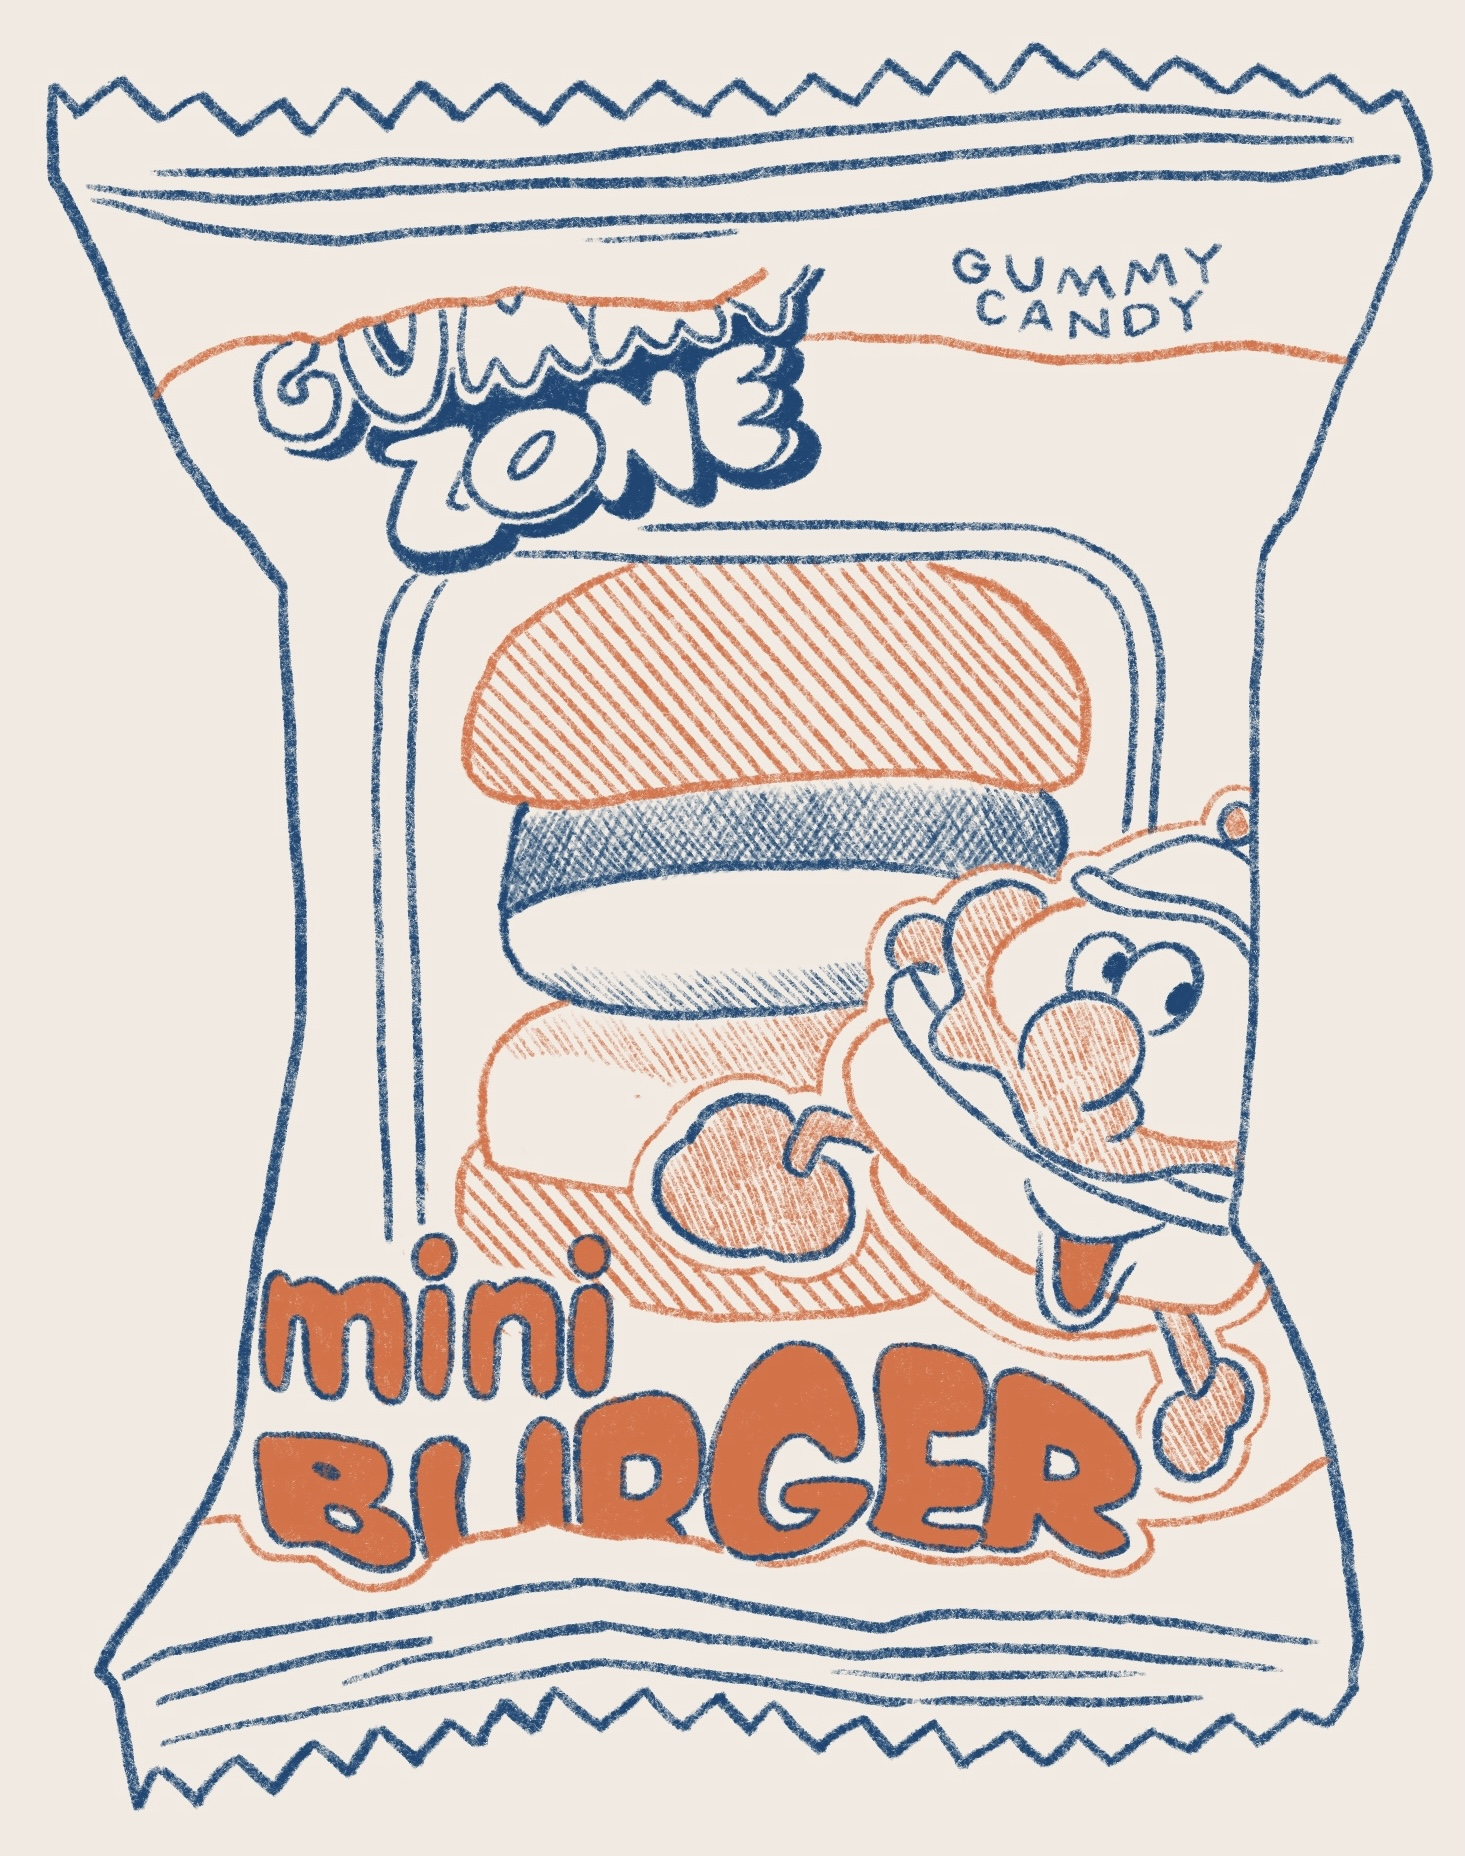
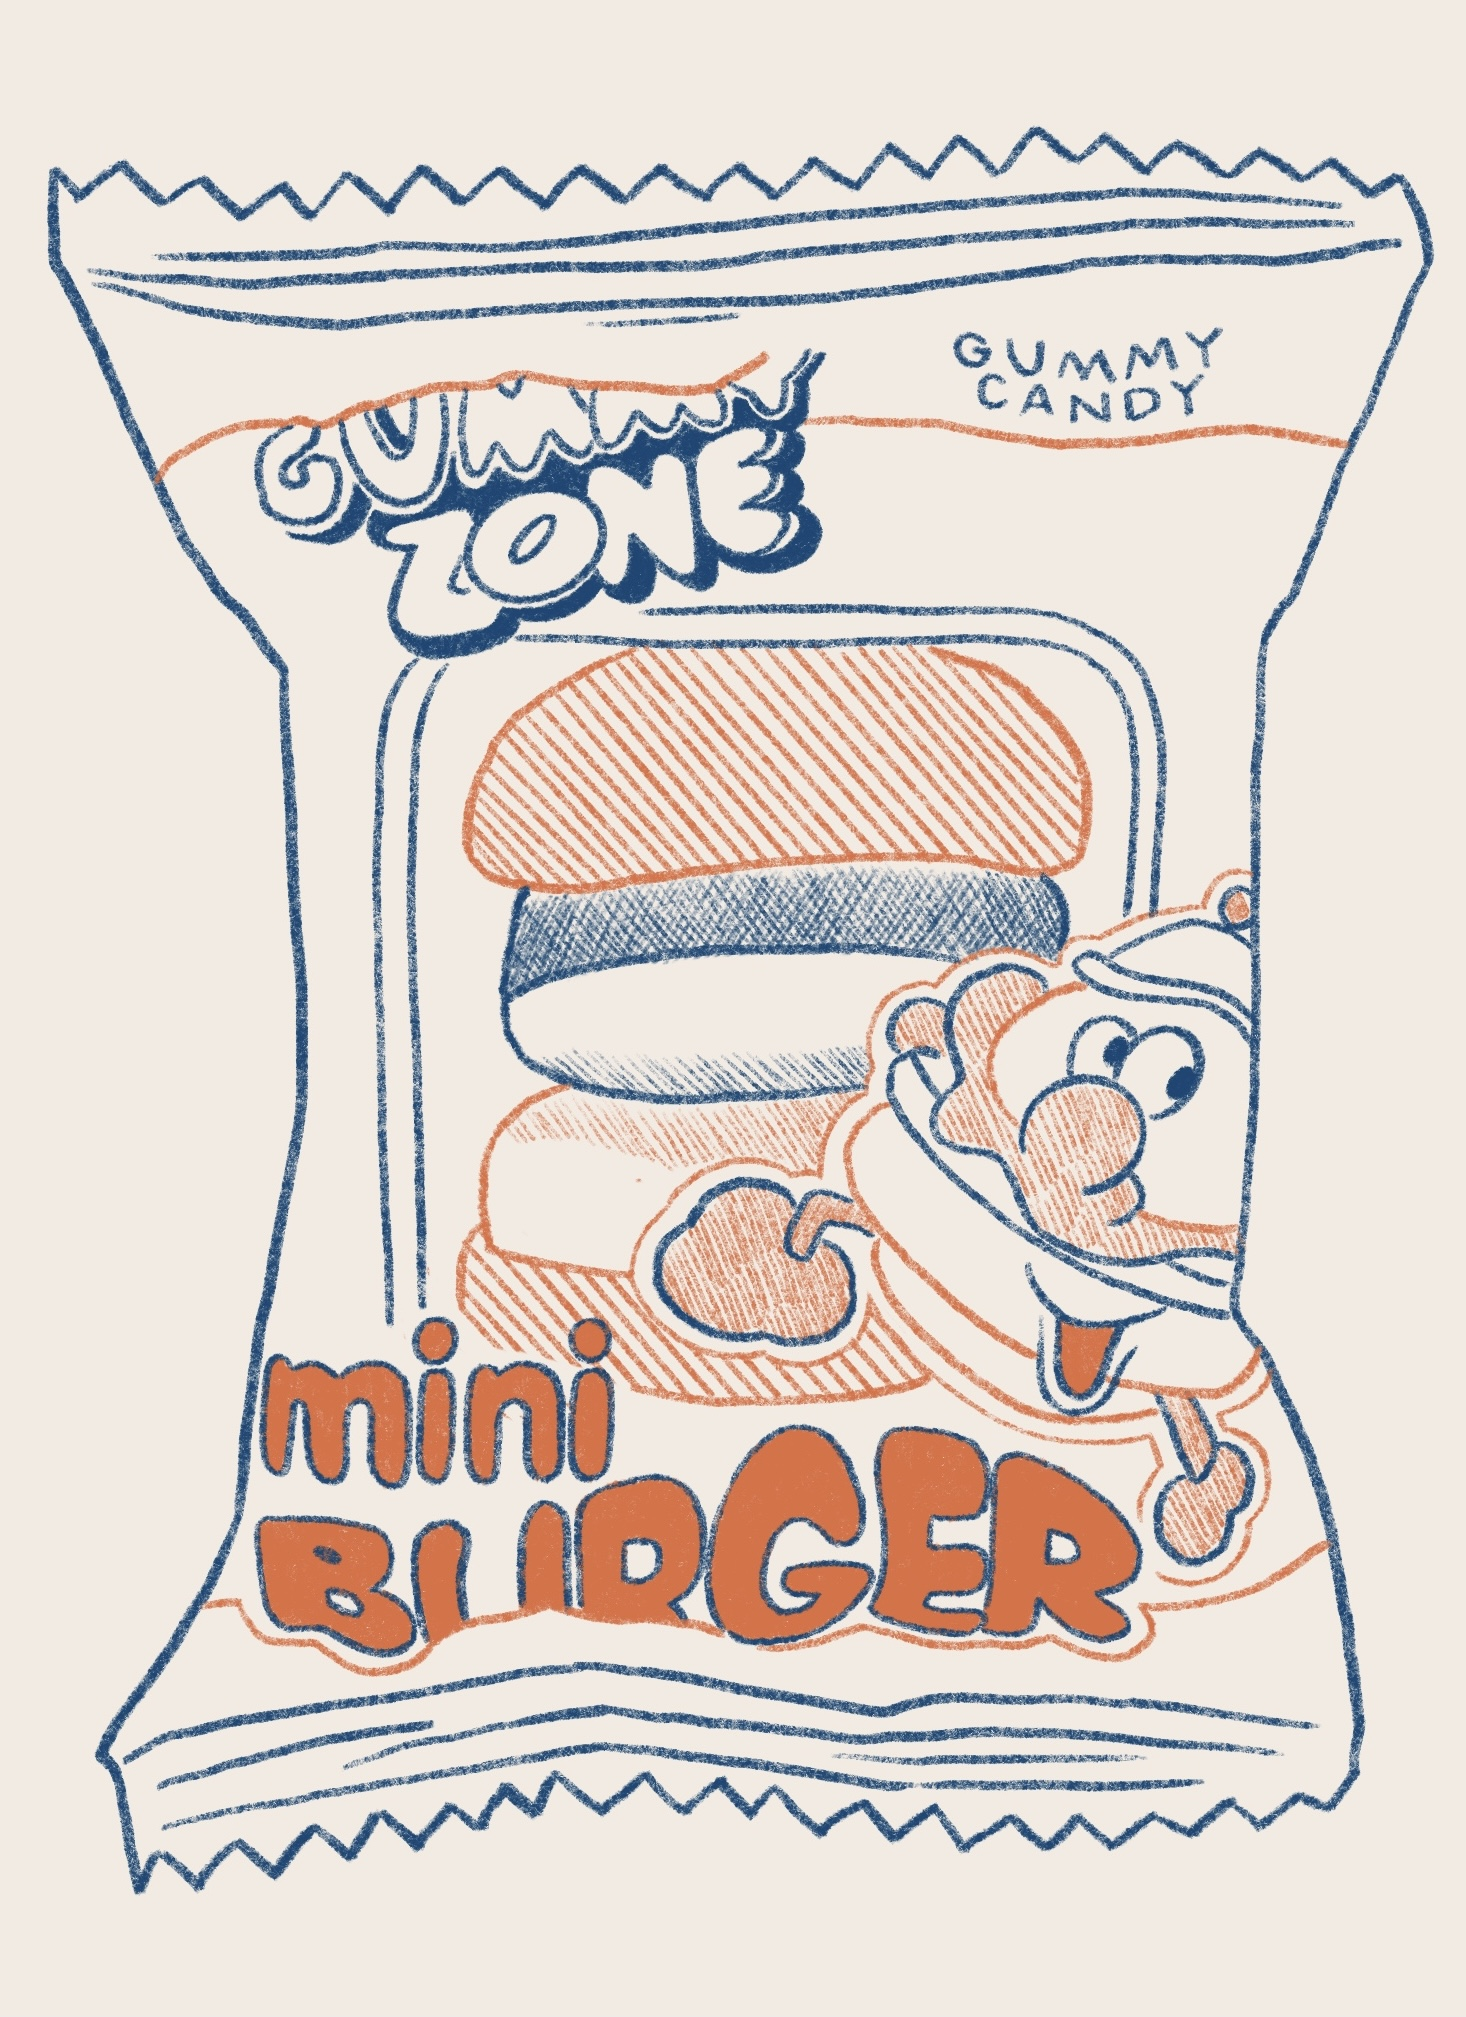
link

diff --git a/projects/project2/snack10/index.html b/projects/project2/snack10/index.html
@@ -1,0 +1,27 @@
+<!DOCTYPE html>
+<html lang="en">
+<head>
+    <meta charset="UTF-8">
+    <meta http-equiv="X-UA-Compatible" content="IE=edge">
+    <meta name="viewport" content="width=device-width, initial-scale=1.0">
+    <title>Document</title>
+    <link rel="stylesheet" type="text/css" href="../assets/style.css">  
+    <script>
+        (function(d) {
+          var config = {
+            kitId: 'jhi4oxh',
+            scriptTimeout: 3000,
+            async: true
+          },
+          h=d.documentElement,t=setTimeout(function(){h.className=h.className.replace(/\bwf-loading\b/g,"")+" wf-inactive";},config.scriptTimeout),tk=d.createElement("script"),f=false,s=d.getElementsByTagName("script")[0],a;h.className+=" wf-loading";tk.src='https://use.typekit.net/'+config.kitId+'.js';tk.async=true;tk.onload=tk.onreadystatechange=function(){a=this.readyState;if(f||a&&a!="complete"&&a!="loaded")return;f=true;clearTimeout(t);try{Typekit.load(config)}catch(e){}};s.parentNode.insertBefore(tk,s)
+        })(document);
+      </script>
+</head>
+<body data-snackid="10">
+    <main id="container">
+    </main>  
+
+
+    <script src="../assets/snackpage.js"></script>
+</body>
+</html>

diff --git a/projects/project2/snack11/index.html b/projects/project2/snack11/index.html
@@ -1,0 +1,27 @@
+<!DOCTYPE html>
+<html lang="en">
+<head>
+    <meta charset="UTF-8">
+    <meta http-equiv="X-UA-Compatible" content="IE=edge">
+    <meta name="viewport" content="width=device-width, initial-scale=1.0">
+    <title>Document</title>
+    <link rel="stylesheet" type="text/css" href="../assets/style.css">  
+    <script>
+        (function(d) {
+          var config = {
+            kitId: 'jhi4oxh',
+            scriptTimeout: 3000,
+            async: true
+          },
+          h=d.documentElement,t=setTimeout(function(){h.className=h.className.replace(/\bwf-loading\b/g,"")+" wf-inactive";},config.scriptTimeout),tk=d.createElement("script"),f=false,s=d.getElementsByTagName("script")[0],a;h.className+=" wf-loading";tk.src='https://use.typekit.net/'+config.kitId+'.js';tk.async=true;tk.onload=tk.onreadystatechange=function(){a=this.readyState;if(f||a&&a!="complete"&&a!="loaded")return;f=true;clearTimeout(t);try{Typekit.load(config)}catch(e){}};s.parentNode.insertBefore(tk,s)
+        })(document);
+      </script>
+</head>
+<body data-snackid="11">
+    <main id="container">
+    </main>  
+
+
+    <script src="../assets/snackpage.js"></script>
+</body>
+</html>

diff --git a/projects/project2/snack12/index.html b/projects/project2/snack12/index.html
@@ -1,0 +1,27 @@
+<!DOCTYPE html>
+<html lang="en">
+<head>
+    <meta charset="UTF-8">
+    <meta http-equiv="X-UA-Compatible" content="IE=edge">
+    <meta name="viewport" content="width=device-width, initial-scale=1.0">
+    <title>Document</title>
+    <link rel="stylesheet" type="text/css" href="../assets/style.css">  
+    <script>
+        (function(d) {
+          var config = {
+            kitId: 'jhi4oxh',
+            scriptTimeout: 3000,
+            async: true
+          },
+          h=d.documentElement,t=setTimeout(function(){h.className=h.className.replace(/\bwf-loading\b/g,"")+" wf-inactive";},config.scriptTimeout),tk=d.createElement("script"),f=false,s=d.getElementsByTagName("script")[0],a;h.className+=" wf-loading";tk.src='https://use.typekit.net/'+config.kitId+'.js';tk.async=true;tk.onload=tk.onreadystatechange=function(){a=this.readyState;if(f||a&&a!="complete"&&a!="loaded")return;f=true;clearTimeout(t);try{Typekit.load(config)}catch(e){}};s.parentNode.insertBefore(tk,s)
+        })(document);
+      </script>
+</head>
+<body data-snackid="12">
+    <main id="container">
+    </main>  
+
+
+    <script src="../assets/snackpage.js"></script>
+</body>
+</html>

diff --git a/projects/project2/snack13/index.html b/projects/project2/snack13/index.html
@@ -1,0 +1,27 @@
+<!DOCTYPE html>
+<html lang="en">
+<head>
+    <meta charset="UTF-8">
+    <meta http-equiv="X-UA-Compatible" content="IE=edge">
+    <meta name="viewport" content="width=device-width, initial-scale=1.0">
+    <title>Document</title>
+    <link rel="stylesheet" type="text/css" href="../assets/style.css">  
+    <script>
+        (function(d) {
+          var config = {
+            kitId: 'jhi4oxh',
+            scriptTimeout: 3000,
+            async: true
+          },
+          h=d.documentElement,t=setTimeout(function(){h.className=h.className.replace(/\bwf-loading\b/g,"")+" wf-inactive";},config.scriptTimeout),tk=d.createElement("script"),f=false,s=d.getElementsByTagName("script")[0],a;h.className+=" wf-loading";tk.src='https://use.typekit.net/'+config.kitId+'.js';tk.async=true;tk.onload=tk.onreadystatechange=function(){a=this.readyState;if(f||a&&a!="complete"&&a!="loaded")return;f=true;clearTimeout(t);try{Typekit.load(config)}catch(e){}};s.parentNode.insertBefore(tk,s)
+        })(document);
+      </script>
+</head>
+<body data-snackid="13">
+    <main id="container">
+    </main>  
+
+
+    <script src="../assets/snackpage.js"></script>
+</body>
+</html>

diff --git a/projects/project2/snack7/index.html b/projects/project2/snack7/index.html
@@ -1,0 +1,27 @@
+<!DOCTYPE html>
+<html lang="en">
+<head>
+    <meta charset="UTF-8">
+    <meta http-equiv="X-UA-Compatible" content="IE=edge">
+    <meta name="viewport" content="width=device-width, initial-scale=1.0">
+    <title>Document</title>
+    <link rel="stylesheet" type="text/css" href="../assets/style.css">  
+    <script>
+        (function(d) {
+          var config = {
+            kitId: 'jhi4oxh',
+            scriptTimeout: 3000,
+            async: true
+          },
+          h=d.documentElement,t=setTimeout(function(){h.className=h.className.replace(/\bwf-loading\b/g,"")+" wf-inactive";},config.scriptTimeout),tk=d.createElement("script"),f=false,s=d.getElementsByTagName("script")[0],a;h.className+=" wf-loading";tk.src='https://use.typekit.net/'+config.kitId+'.js';tk.async=true;tk.onload=tk.onreadystatechange=function(){a=this.readyState;if(f||a&&a!="complete"&&a!="loaded")return;f=true;clearTimeout(t);try{Typekit.load(config)}catch(e){}};s.parentNode.insertBefore(tk,s)
+        })(document);
+      </script>
+</head>
+<body data-snackid="7">
+    <main id="container">
+    </main>  
+
+
+    <script src="../assets/snackpage.js"></script>
+</body>
+</html>

diff --git a/projects/project2/snack8/index.html b/projects/project2/snack8/index.html
@@ -1,0 +1,27 @@
+<!DOCTYPE html>
+<html lang="en">
+<head>
+    <meta charset="UTF-8">
+    <meta http-equiv="X-UA-Compatible" content="IE=edge">
+    <meta name="viewport" content="width=device-width, initial-scale=1.0">
+    <title>Document</title>
+    <link rel="stylesheet" type="text/css" href="../assets/style.css">  
+    <script>
+        (function(d) {
+          var config = {
+            kitId: 'jhi4oxh',
+            scriptTimeout: 3000,
+            async: true
+          },
+          h=d.documentElement,t=setTimeout(function(){h.className=h.className.replace(/\bwf-loading\b/g,"")+" wf-inactive";},config.scriptTimeout),tk=d.createElement("script"),f=false,s=d.getElementsByTagName("script")[0],a;h.className+=" wf-loading";tk.src='https://use.typekit.net/'+config.kitId+'.js';tk.async=true;tk.onload=tk.onreadystatechange=function(){a=this.readyState;if(f||a&&a!="complete"&&a!="loaded")return;f=true;clearTimeout(t);try{Typekit.load(config)}catch(e){}};s.parentNode.insertBefore(tk,s)
+        })(document);
+      </script>
+</head>
+<body data-snackid="8">
+    <main id="container">
+    </main>  
+
+
+    <script src="../assets/snackpage.js"></script>
+</body>
+</html>

diff --git a/projects/project2/snack9/index.html b/projects/project2/snack9/index.html
@@ -1,0 +1,27 @@
+<!DOCTYPE html>
+<html lang="en">
+<head>
+    <meta charset="UTF-8">
+    <meta http-equiv="X-UA-Compatible" content="IE=edge">
+    <meta name="viewport" content="width=device-width, initial-scale=1.0">
+    <title>Document</title>
+    <link rel="stylesheet" type="text/css" href="../assets/style.css">  
+    <script>
+        (function(d) {
+          var config = {
+            kitId: 'jhi4oxh',
+            scriptTimeout: 3000,
+            async: true
+          },
+          h=d.documentElement,t=setTimeout(function(){h.className=h.className.replace(/\bwf-loading\b/g,"")+" wf-inactive";},config.scriptTimeout),tk=d.createElement("script"),f=false,s=d.getElementsByTagName("script")[0],a;h.className+=" wf-loading";tk.src='https://use.typekit.net/'+config.kitId+'.js';tk.async=true;tk.onload=tk.onreadystatechange=function(){a=this.readyState;if(f||a&&a!="complete"&&a!="loaded")return;f=true;clearTimeout(t);try{Typekit.load(config)}catch(e){}};s.parentNode.insertBefore(tk,s)
+        })(document);
+      </script>
+</head>
+<body data-snackid="9">
+    <main id="container">
+    </main>  
+
+
+    <script src="../assets/snackpage.js"></script>
+</body>
+</html>

diff --git a/projects/project2/assets/snackpage.js b/projects/project2/assets/snackpage.js
@@ -6,7 +6,7 @@ let container = document.getElementById("container");
 // see Python instructions here:
 // https://developer.mozilla.org/en-US/docs/Learn/Common_questions/Tools_and_setup/set_up_a_local_testing_server#using_python
 
-fetch('/assets/snacks.json')
+fetch('snacks.json')
   .then(response => response.json())
   .then(data => {
     console.log(data);

diff --git a/projects/project2/assets/style.css b/projects/project2/assets/style.css
@@ -60,6 +60,7 @@
 
 .snackimg img{
   height:30vw;
+  margin:1vw;
 }
 
 
